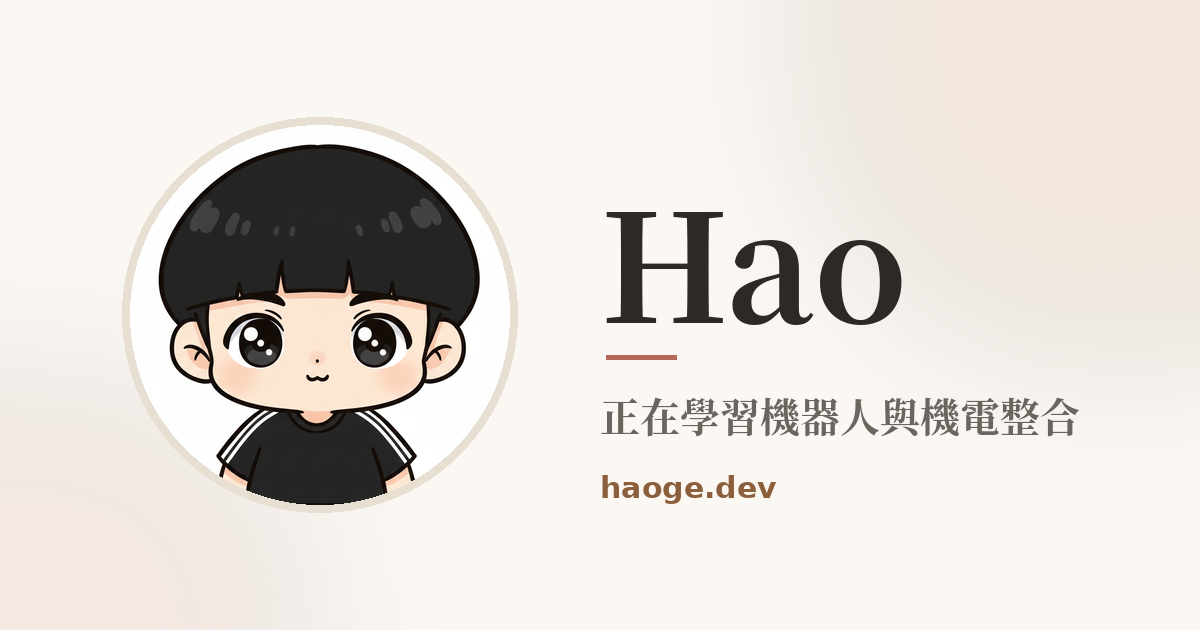
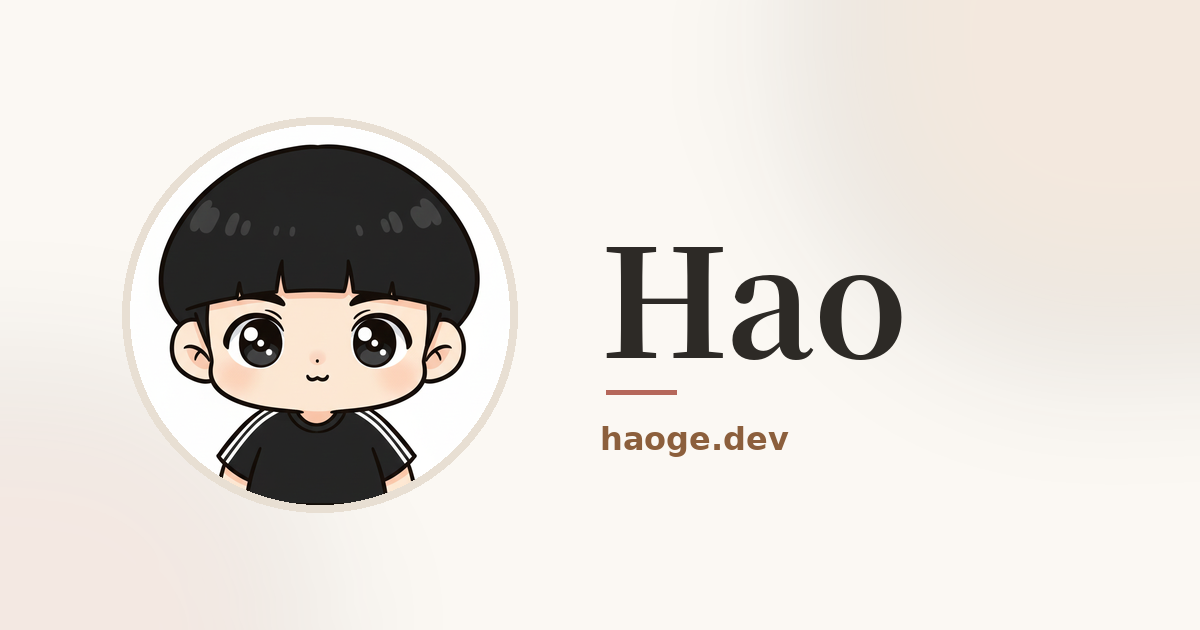
Remove hero tagline from homepage and share image

Changed region(s): [[0.4933, 0.3317, 0.7708, 0.573], [0.4933, 0.6032, 0.8942, 0.7238], [0.4933, 0.754, 0.6475, 0.8143]]

diff --git a/app/page.tsx b/app/page.tsx
@@ -87,10 +87,7 @@ export default function Home() {
             <h1 className="text-6xl md:text-7xl font-serif font-black tracking-tight text-warm-text leading-none min-h-[1.1em] flex items-center justify-center md:justify-start">
               <Typewriter text="Hao" />
             </h1>
-            <p className="mt-5 text-lg md:text-xl font-serif font-medium text-warm-text">
-              正在學習機器人與機電整合
-            </p>
-            <p className="mt-3 text-warm-sub leading-relaxed max-w-md mx-auto md:mx-0">
+            <p className="mt-5 text-warm-sub leading-relaxed max-w-md mx-auto md:mx-0">
               這裡記錄我做過的專題、參加過的比賽，以及過程中學到的東西。
             </p>
 
